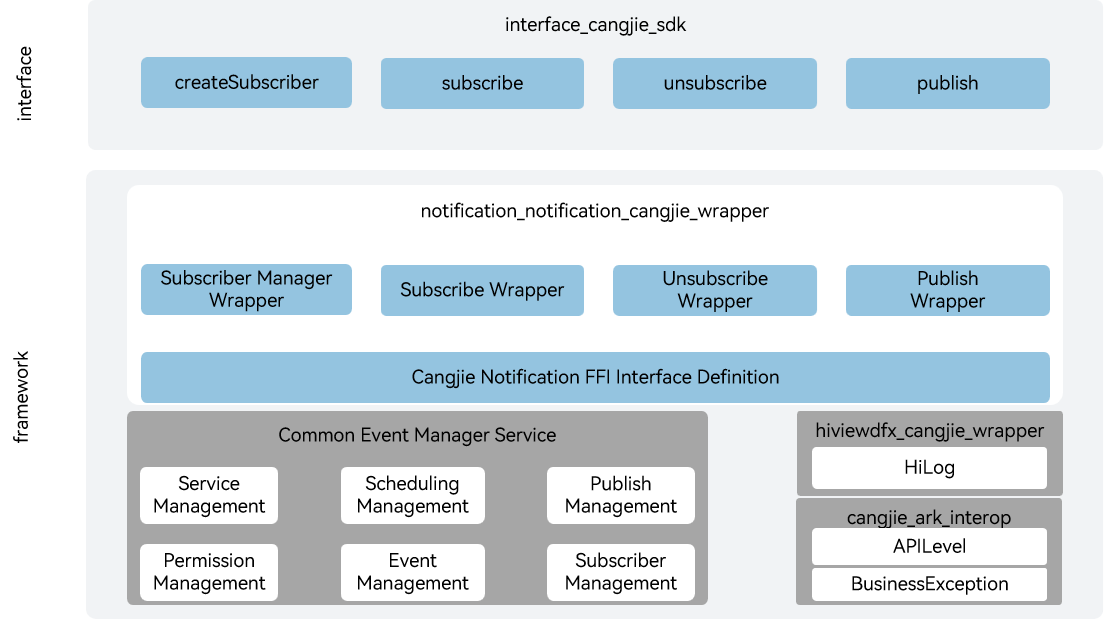
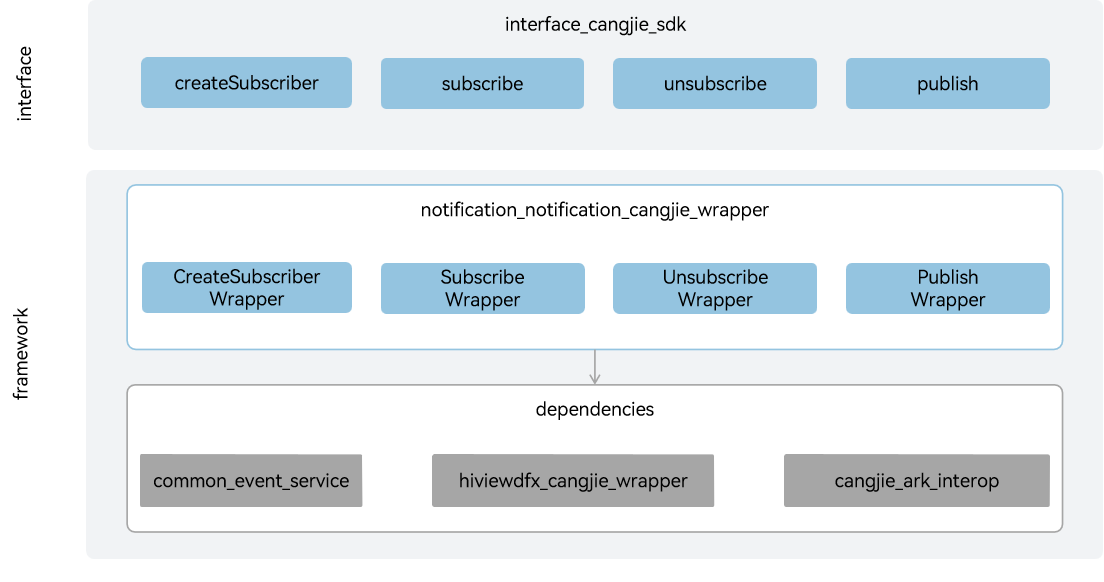
fix readme

diff --git a/README.md b/README.md
@@ -2,7 +2,7 @@
 
 ## Introduction
 
-The notification_notification_cangjie_wrapper is a Cangjie API encapsulated on OpenHarmony based on the capabilities of the notification subsystem. OpenHarmony provides a Common Event Service (CES) for applications to subscribe to, publish, and unsubscribe from common events. The currently open notification Cangjie API only supports standard devices.
+The notification_notification_cangjie_wrapper offers event communication capabilities for developers engaged in application development using the Cangjie programming language. OpenHarmony provides a Common Event Service (CES) for applications to subscribe to, publish, and unsubscribe from common events. The currently open notification_notification_cangjie_wrapper only supports standard devices.
 
 Common events can be divided into system common events and custom common events.
 
@@ -20,14 +20,25 @@ Each application can subscribe to common events as needed. If an application sub
 
 As shown in the architecture diagram, the notification Cangjie API provides the capabilities to publish common events, create subscribers, subscribe, and unsubscribe.
 
-- Create Subscriber: Create a common event subscriber based on subscription information. The subscription information can specify the common events to subscribe to, the permissions required from the publisher, and set the subscriber's priority.
-- Subscribe: Complete the subscription setting for the specified subscriber.
-- Unsubscribe: Cancel the subscription capability of the specified subscriber.
-- Publish: Publish a common event with the specified name and attributes.
-- Cangjie Notification FFI Interface Definition: Responsible for defining C language interoperation Cangjie interfaces, used to implement Cangjie notification capabilities.
-- Common Event Manager Service: Responsible for providing common event basic services, encapsulating C interfaces for interoperation with Cangjie.
-- cangjie_ark_interop: Provides Cangjie annotation definitions for API annotation and BusinessException exception class definition for user-facing exceptions.
-- hiviewdfx_cangjie_wrapper: Provides logging interfaces for printing logs on critical paths.
+Interface Layer:
+
+- createSubscriber: Provides developers with the capability to create common event subscribers based on subscription information. The subscription information can specify the common events to be subscribed to, the permissions that event publishers must have, and the priority of the subscriber, among other details.
+- subscribe: Provides developers with the capability to perform subscription operations for specified subscribers.
+- unsubscribe: Provides developers with the capability to perform unsubscription operations for specified subscribers.
+- publish: Provides developers with the capability to publish custom common events with specified names and attributes.
+
+Framework Layer:
+
+- CreateSubscriber Wrapper: Implements the encapsulation of subscriber management based on the common event management service provided by the underlying common event subsystem. It enables the capability to create common event subscribers, which is used to obtain information related to received common events and set processing information for common events.
+- Subscribe Wrapper: Implements the encapsulation of subscriber management based on the common event management service provided by the underlying common event subsystem, enabling the subscription capability for specified subscribers.
+- Unsubscribe Wrapper: Implements the encapsulation of subscriber management based on the common event management service provided by the underlying common event subsystem, enabling the unsubscription capability for specified subscribers.
+- Publish Wrapper: Implements the encapsulation of subscriber management based on the common event management service provided by the underlying common event subsystem, enabling the capability to publish custom common events.
+
+Dependency Components Introduction in Architecture:
+
+- common_event_service: Relies on the common event management service capabilities provided by the common event subsystem for the implementation of framework layer capabilities.
+- hiviewdfx_cangjie_wrapper: Depends on HiLog capabilities for printing logs at key points.
+- cangjie_ark_interop: Depends on APILevel class definitions and BusinessException class definitions for API annotation and throwing exceptions to users in error branches.
 
 ## Directory Structure
 
@@ -54,12 +65,14 @@ The current notification Cangjie API provides the following functions:
 - Subscribe to common events.
 - Unsubscribe.
 
+For common event related APIs, please refer to [ohos.common_event_manager](https://gitcode.com/openharmony-sig/arkcompiler_cangjie_ark_interop/blob/master/doc/API_Reference/source_en/apis/BasicServicesKit/cj-apis-common_event_manager.md). For related guidelines, please refer to [Common Event Development Guide](https://gitcode.com/openharmony-sig/arkcompiler_cangjie_ark_interop/tree/master/doc/Dev_Guide/source_en/basic-services/common-event).
+
+## Constraints
+
 Compared to ArkTS API, the following functions are not supported:
 
 - The ability to send and process events between different threads within the same process or within the same thread.
 - User notification service.
-
-For common event related APIs, please refer to [ohos.common_event_manager](https://gitcode.com/openharmony-sig/arkcompiler_cangjie_ark_interop/blob/master/doc/API_Reference/source_en/apis/BasicServicesKit/cj-apis-common_event_manager.md). For related guidelines, please refer to [Common Event Development Guide](https://gitcode.com/openharmony-sig/arkcompiler_cangjie_ark_interop/tree/master/doc/Dev_Guide/source_en/basic-services/common-event).
 
 ## Code Contribution
 

diff --git a/README_zh.md b/README_zh.md
@@ -1,8 +1,8 @@
-# 事件通知仓颉接口
+# 事件通知仓颉封装
 
 ## 简介
 
-事件通知仓颉接口是在OpenHarmony上基于事件通知子系统能力之上封装的仓颉API。OpenHarmony通过CES（Common Event Service，公共事件服务）为应用程序提供订阅、发布、退订公共事件的能力。当前开放的事件通知仓颉接口仅支持standard设备。
+事件通知仓颉封装是在OpenHarmony上面向开发者使用仓颉语言进行应用开发时提供事件通信能力。OpenHarmony通过CES（Common Event Service，公共事件服务）为应用程序提供订阅、发布、退订公共事件的能力。当前开放的事件通知仓颉封装仅支持standard设备。
 
 公共事件可分为系统公共事件和自定义公共事件。
 
@@ -18,16 +18,25 @@
 
 ![事件通知仓颉架构图](figures/notification_cangjie_wrapper_architecture_zh.png)
 
-如架构图所示，事件通知仓颉接口提供发布公共事件、创建订阅者、订阅、取消订阅的能力。
+如架构图所示，事件通知仓颉封装提供发布公共事件、创建订阅者、订阅、取消订阅的能力。
 
-- 创建订阅者：根据订阅信息创建公共事件订阅者，其中订阅信息可以指定订阅的公共事件，要求发布者需要具备的权限，设定订阅者的优先级等。
-- 订阅：完成指定订阅者的订阅设定。
-- 取消订阅：取消指定订阅者的订阅能力。
-- 发布公共事件：发布指定名称与属性的公共事件。
-- 仓颉事件通知FFI接口定义：负责定义C语言互操作仓颉接口，用于实现仓颉事件通知能力。
-- 公共事件管理服务：负责提供公共事件基础服务，封装C语言接口提供给仓颉进行互操作。
-- cangjie_ark_interop：负责提供仓颉注解定义，用于对API进行标注，以及提供抛向用户的BusinessException异常类定义。
-- hiviewdfx_cangjie_wrapper：负责提供日志接口，用于在关键路径打印日志。
+接口层：
+
+- 创建订阅者：面向开发者提供根据订阅信息创建公共事件订阅者的能力，其中订阅信息可以指定订阅的公共事件，事件发布者需要具备的权限，以及设定订阅者的优先级等。
+- 订阅：面向开发者提供指定订阅者的订阅操作能力。
+- 取消订阅：面向开发者提供指定订阅者的取消订阅操作能力。
+- 发布公共事件：面向开发者提供发布指定名称与属性的自定义公共事件的能力。
+
+框架层：
+- 订阅者创建功能封装：基于底层公共事件子系统提供的公共事件管理服务实现订阅者管理的封装，实现创建公共事件订阅者的能力，用于获取所接受公共事件的相关信息，及设定公共事件的处理信息。
+- 订阅功能封装：基于底层公共事件子系统提供的公共事件管理服务实现订阅者管理的封装，实现指定订阅者的订阅能力。
+- 取消订阅功能封装：基于底层公共事件子系统提供的公共事件管理服务实现订阅者管理的封装，实现指定订阅者的取消订阅能力。
+- 发布功能封装：基于底层公共事件子系统提供的公共事件管理服务实现订阅者管理的封装，实现发布自定义公共事件的能力。
+
+架构图中依赖部件引入说明：
+- 公共事件子系统：依赖公共事件子系统提供的公共事件管理服务能力，用于框架层能力的实现。
+- hiviewdfx_cangjie_wrapper：依赖hiviewdfx_cangjie_wrapper提供的HiLog日志能力，用于在关键路径打印日志。
+- cangjie_ark_interop：依赖cangjie_ark_interop提供的仓颉注解类定义和BusinessException异常类定义，用于对API进行标注，及在错误分支向用户抛出异常。
 
 ## 目录
 
@@ -47,19 +56,21 @@ base/notification/notification_cangjie_wrapper
 
 ## 使用说明
 
-当前事件通知仓颉接口提供以下功能：
+当前事件通知仓颉封装提供以下功能：
 
 - 发布公共事件。
 - 创建订阅者。
 - 订阅公共事件。
 - 取消订阅。
 
+事件通知相关接口请参见[公共事件API文档](https://gitcode.com/openharmony-sig/arkcompiler_cangjie_ark_interop/blob/master/doc/API_Reference/source_zh_cn/apis/BasicServicesKit/cj-apis-common_event_manager.md)，相关开发指导请参见[公共事件开发指南](https://gitcode.com/openharmony-sig/arkcompiler_cangjie_ark_interop/tree/master/doc/Dev_Guide/source_zh_cn/basic-services/common-event)。
+
+## 约束
+
 与ArkTS提供的API能力相比，暂不支持以下功能：
 
 - 在同一进程不同线程间或同一线程内发送和处理事件的能力。
 - 用户通知服务。
-
-事件通知相关接口请参见[公共事件API文档](https://gitcode.com/openharmony-sig/arkcompiler_cangjie_ark_interop/blob/master/doc/API_Reference/source_zh_cn/apis/BasicServicesKit/cj-apis-common_event_manager.md)，相关开发指导请参见[公共事件开发指南](https://gitcode.com/openharmony-sig/arkcompiler_cangjie_ark_interop/tree/master/doc/Dev_Guide/source_zh_cn/basic-services/common-event)。
 
 ## 参与贡献
 
